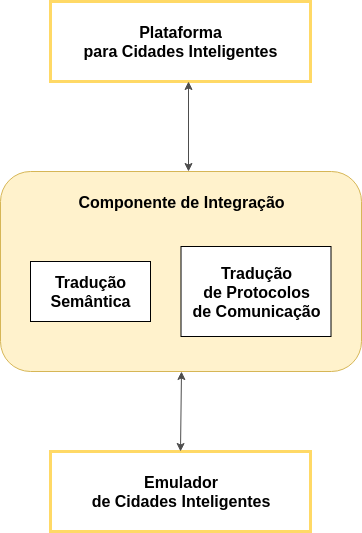
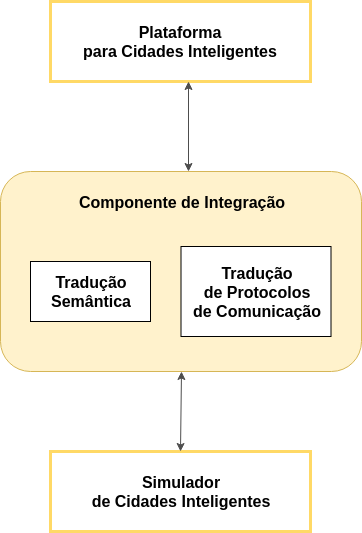
Melhorias gerais no texto

diff --git a/capitulos/4-estudos-de-caso.tex b/capitulos/4-estudos-de-caso.tex
@@ -9,7 +9,7 @@ Através desses dois experimentos pudemos validar a proposta de solução aprese
 Foi possível exercitar as principais funcionalidades necessárias para a realização de experimentos desse tipo, através da integração do InterSCSimulator e a plataforma InterSCity.
 
 Os cenários simulados em cada experimento e seus respectivos resultados serão apresentados nas seções a seguir.
-E ao final, realizaremos uma análise crítica sobre os resultados obtidos nesse trabalho, apontando possíveis melhorias a serem feitas.
+E ao final, realizaremos uma análise crítica sobre os resultados obtidos nesses estudos de caso, apontando possíveis melhorias a serem feitas.
 
 \section{Estacionamento Inteligente}
 \label{sec:exp_smart_parking}
@@ -24,17 +24,17 @@ Utilizamos dados extraídos da pesquida OD (Origem-Destino) realizada pela Compa
 A seguir, esses dados, bem como suas fontes, utilizados na configuração do experimento serão detalhados:
 
 \begin{itemize}
-    \item \textbf{Pesquisa Origem-Destino (OD)}: criamos as viagens de carro simuladas com base na pesquisa OD realizada pela Companhia de Metrô de São Paulo.
+    \item \textbf{Pesquisa Origem-Destino (OD)}: criamos as viagens de carro simuladas com base na pesquisa OD realizada pela Companhia de Metrô de São Paulo em 2007.
         \footnote{Pesquisa Origem-Destino - http://goo.gl/Te2SX7.}
         Essa pesquisa descreve as viagens de 200.000 pessoas e extrapola os dados para toda a população da cidade.
         A pesquisa inclui informações sobre a origem, o destino, o modo de transporte e a hora de partida.
-        Esses dados forma utilizados para definir o comportamento dos agentes do tipo carro na simulação.
-        Para gerar a carga para os experimentos da plataforma, emulamos o tráfego em São Paulo durante o horário de pico, das 5h40 às 8h40.
+        Esses dados foram utilizados para definir o comportamento dos agentes do tipo carro na simulação.
+        Para gerar a carga de trabalho para a plataforma, simulamos o tráfego em São Paulo durante um dos horário de pico, das 5h40 às 8h40.
         Na pesquisa OD, há 492.976 carros que começam suas viagens durante o intervalo de tempo considerado.
 
     \item \textbf{OpenStreet Maps}: para criar o grafo viário da cidade de São Paulo usado na simulação, usamos o mapa do OpenStreet Maps.
         Este mapa contém todas as ruas e junções da cidade, em conjunto com um vasto número de atributos, como comprimento, capacidade e velocidade limite.
-        Tal informação é usada pelo simulador para definir as rotas percorridas pelos carros durante a realização de suas viagens, bem como simular o impacto do tráfego na velocidade dos carros.
+        Tais informações são usadas pelo simulador para definir as rotas percorridas pelos carros durante a realização de suas viagens, bem como simular o impacto do tráfego na velocidade dos carros.
 
     \item \textbf{Vagas de Estacionamento}: criamos as vagas de estacionamento na simulação baseado nos dados obtidos através do OpenStreet Maps e do Zona Azul
         \footnote{http://www.cetsp.com.br/consultas/zona-azul/mapa-zona-azul/mapa-zona-azul.aspx}
@@ -46,7 +46,7 @@ utilizadas nesse experimento.
 Os destinos apresentados na Figura \ref{fig:map-destinations-distribution}, são referentes a todas as viagens realizadas no decorrer de toda a simulação.
 É importante notar que a distribuição das vagas de estacionamento baseado nesses dados reais está mais concentrada no centro da cidade do que os destinos das viagens.
 Isso pode levar a situaçãoes onde o agente do tipo carro pode realizar mais de três tentativas de busca de vagas disponíveis e ainda sim não conseguir estacionar.
-Nesse caso, o usuário do aplicativo pararia de utiliza-lo e o agente do tipo carro terminaria sua execução, como apresentado na Seção \ref{sec:smart_parking}.
+Nesse caso, o usuário do aplicativo pararia de utilizá-lo e o agente do tipo carro terminaria sua execução, como apresentado na Seção \ref{sec:smart_parking}.
 
 \begin{figure}[!ht]
     \centering
@@ -83,10 +83,10 @@ Então, inicialmente, foi necessário a configuração de ambas as ferramentas e
 Os microsserviços da plataforma InterSCity, o simulador InterSCSimulator e ferramentas auxiliares foram implantados na forma de \textit{containers} Docker \footnote{https://www.docker.com/}.
 Utilizamos a infraestrutura provida pelo Google Cloud Platform (GCP) \footnote{https://cloud.google.com/} para a realização do experimento, sendo esse o ambiente ideal para a execução da plataforma
 InteSCity, como visto na Seção \ref{sec:interscity}.
-No contexto do GCP, fizemos bastante uso do Google Kubernetes Engine (GKE), sendo esse um serivço que provê um ambiente gerenciado e pronto de produção para implantação de \textit{containers} de
+No contexto do GCP, fizemos bastante uso do Google Kubernetes Engine (GKE), sendo esse um serviço que provê um ambiente gerenciado e de produção para implantação de \textit{containers} de
 aplicações.
 O Kubernetes foi utilizado principalemte para automatizar a reinicialização, a replicação e dimensionamento do número de \textit{containers}.
-Além disso, o kubernetes traz uma vantagem para a reproducibilidade do experimento que é a especificação da infraestrutura como código, garantindo a correta aplicação das regras de implantação.
+Além disso, o kubernetes traz uma vantagem para a reprodutibilidade do experimento que é a especificação da infraestrutura como código, garantindo a correta aplicação das regras de implantação.
 Todo o código fonte utilizado para a realização desse experimento está disponível em repositório aberto na web \footnote{https://github.com/LSS-USP/interscity-k8s-experiment}.
 
 Nós dividimos o \textit{cluster} utilizado em cinco diferentes \textit{pools} de máquinas virtuais para que o Kubernetes pudesse gerenciar os \textit{containers} no contexto apropriado.
@@ -109,11 +109,11 @@ Finalmente, o InterSCSimulator é executado em sua própria máquina n1-highmem-
 \end{figure}
 
 
-Para o conjunto de nós da plataforma, o Kubernetes pode programar vários \textit{containers} para a mesma máquina, dependendo da disponibilidade de recursos computacionais.
+Para o conjunto de nós da plataforma, o Kubernetes pode programar a implantação de vários \textit{containers} para a mesma máquina, dependendo da disponibilidade de recursos computacionais.
 A distribuição de \textit{containers} nos 25 nós pode diferir de uma rodada do experimento para a outra, e é uma variável que nós não controlamos durante o experimento.
 Para avaliar o impacto de tais variações na análise, realizamos 15 rodadas deste experimento e verificamos a variabilidade dos resultados.
 
-Como estávamos interessados em avaliar a escalabilidade da plataforma considerando um cenário de cidade inteligente com uma carga de trabalho variável, usamos dimensionamento automático
+Como estávamos interessados em avaliar a escalabilidade da plataforma considerando um cenário de Cidades Inteligentes com uma carga de trabalho variável, usamos dimensionamento automático
 (\textit{auto-scaling}) para o \textit{Resource Catalog}, \textit{Resource Discovery}, \textit{Data Collector}, já que eles são projetados para escalar horizontalmente.
 Para este propósito, especificamos um valor alvo de 60\% de uso da CPU para cada um desses serviços, permitindo que o sistema aumente ou diminua o número de \textit{containers} por serviço baseado nisso.
 O sistema balanceia a carga de trabalho para corresponder ao valor alvo de uso da CPU, considerando o uso médio da CPU dos \textit{containers} em execução, que é medido a cada 30 segundos.
@@ -176,10 +176,10 @@ este tipo de aplicação de Cidades Inteligentes em tempo real.
 
 
 Outro aspecto fundamental da avaliação de um sistema é analisar o desempenho da plataforma para lidar com requisições de aplicação com uma carga de trabalho variável.
-A este respeito, estamos interessado principalmente em analisar a degradação do desempenho e verificar se a plataforma está sendo dimensionada adequadamente para atender seus clientes dentro de tempos
+A este respeito, estamos interessados principalmente em analisar a degradação do desempenho e verificar se a plataforma está sendo dimensionada adequadamente para atender seus clientes dentro de tempos
 de resposta aceitáveis.
 Para tanto, coletamos o tempo de resposta do ponto de vista do cliente, como mostrado Figura \ref{fig:responsetime}.
-Durante a maior parte da duração do experimento, a plataforma foi capaz de responder em menos de um segundo.
+Durante a maior parte do experimento, a plataforma foi capaz de responder em menos de um segundo.
 No entanto, diferente da taxa de vazão, o impacto do maior período de demanda no tempo de resposta observado é perceptível, uma vez que, durante um intervalo curto (após 110 minutos de execução),
 o tempo médio de resposta foi maior que 1 segundo.
 O tempo de resposta voltou para 500 milisegundos depois disso.
@@ -194,7 +194,7 @@ Entretanto, podemos ver que mesmo em períodos de alta carga, o tempo de respost
 
 
 Devemos ter em mente que a distribuição de \textit{containers} nos nós disponíveis podem impactar o tempo de resposta, pois vários \textit{containers} podem competir por recursos computacionais se estiverem
-sendo executados a mesma máquina.
+sendo executados na mesma máquina.
 Além disso, embora o sistema realize a tarefa de dimensionamento automático a cada 30 segundos, não temos controle sobre o tempo que leva para um \textit{container} ser criado, implantado e ficar pronto
 para receber novas requisições.
 Por outro lado, essa distribuição também pode introduzir um efeito benéfico devido a possível implantação de serviços que constantemente interagem uns com os outros na mesma máquina, reduzindo a latência
@@ -209,14 +209,15 @@ Essa aplicação de detecção de anomalias em vias foi implementada utilizando 
 Esse experimento consistiu em três etapas.
 Com discutido na Seção \ref{sec:smart_traffic}, limiares (\textit{thresholds}) de velocidade média para cada trecho de via em cada horário do dia deveriam ser definidos.
 Portanto, a primeira etapa consistiu na simulação do trânsito da cidade sem nenhum evento de fechamento de via, ou seja, o trânsito normal da cidade.
-Com isso, a aplicação de detecção de anomalias era capaz de com os dados de posicionamento de carros enviados a cada ciclo de execução definir esses tais limiares.
+Com isso, a aplicação de detecção de anomalias foi capaz de, com os dados de posicionamento de carros enviados a cada ciclo de execução, definir esses tais limiares.
 Já a segunda etapa, consistiu em simular o trânsito de carros na cidade com alguns eventos de fechamento de vias (representando ruas alagadas e acidentes de carro por exemplo).
 Nessa etapa, simulamos o comportamento caótico visto nas grandes cidades, onde vias são interditadas e interferem diretamente no tráfego dos carros.
-Na última etapa, simulamos exatamente a segunda etapa, mas adicionamos as PMVs para auxiliar os condutores de carros a contornar essas situações.
+Na última etapa, simulamos o mesmo comportamento da segunda etapa, mas adicionamos as PMVs para auxiliar os condutores de carros a contornar essas situações.
 Tendo em vista que os limiares já haviam sido definidos, a aplicação, sem ter conhecimento prévio dessas vias fechadas, detectava automaticamente esses trechos e notificava os motoristas através da
 atualização de mensagens nas PMVs.
+O objetivo dessas três etapas era verificar o impacto do uso de PMVs no tempo de duração médio das viagens de carro em situações de incidentes que inviabilizam a utilização de certas vias em uma cidade.
 
-Para verificar o bom funcionamento desse cenário no ambiente emulado, dividimos esse experimento em dois.
+Para verificar o bom funcionamento desse cenário no ambiente simulado, dividimos esse experimento em dois.
 Na primeira parte, realizamos um experimento numa escala menor e com dados fictícios, visando meramente a validação do comportamento esperado e interação entre os componentes.
 Na segunda parte, utilizamos dados abertos da cidade de São Paulo, aumentando a escala do experimento e se aproximando de um cenário mais realista.
 O código fonte para a execução do experimento e a análise apresentada aqui nesta seção estão disponível em nosso repositório aberto
@@ -245,7 +246,7 @@ O grafo é direcionado, onde cada aresta na verdade representa duas, sendo uma e
 	\label{fig:mapa_validacao}
 \end{figure}
 
-O grafo da Figura \ref{fig:mapa_validacao} retrata o mapa viário da cidade emulada da seguinte forma:
+O grafo da Figura \ref{fig:mapa_validacao} retrata o mapa viário da cidade simulada da seguinte forma:
 
 \begin{itemize}
     \item Os vértices representam início e/ou fim de uma ou mais ruas.
@@ -262,7 +263,7 @@ Além disso, adotamos a seguinte forma para separar vértices e arestas que dese
 
     \item O vértice cinza representa a origem de todas as viagens simuladas.
 
-    \item O vértice amarelo representa o destino das viagens.
+    \item O vértice alaranjado representa o destino das viagens.
 
     \item O vértice azul representa o local da cidade que contém uma PMV que alertará os motoristas sobre possíveis anomalias nas vias.
 \end{itemize}
@@ -312,14 +313,14 @@ a notificação iriam de fato mudar o seu trajeto.
 	\label{fig:mapa_etapa3}
 \end{figure}
 
-As três etapas desse experimento foram realizadas em dois \textit{laptops} com 8 CPUs virtuais (1.80 GHz) e 8 GB de memoria RAM.
+As três etapas desse experimento foram realizadas em dois \textit{laptops} com 8 CPUs virtuais (1.80 GHz) e 8 GB de memória RAM.
 Diferente do experimento apresentado na Seção \ref{sec:exp_smart_parking}, o foco desse experimento não é analisar o desempenho da plataforma, mas sim uma análise funcional. 
 O passo a passo para execução desse experimento de validação foi o seguinte:
 
 \begin{enumerate}
-    \item Executar uma instância em modo de produção da plataforma InterSCity em um \textit{laptops}.
+    \item Executar uma instância em modo de produção da plataforma InterSCity em um \textit{laptop}.
 
-    \item Executar uma instância em modo de produção da simulador InterSCSimulator no outro \textit{laptop}.
+    \item Executar uma instância em modo de produção do simulador InterSCSimulator no outro \textit{laptop}.
 
     \item Configurar rede local entre os \textit{laptops}, conectados de maneira cabeada via ethernet.
 
@@ -365,7 +366,7 @@ trabalho pioneiro.
 \label{sec:smart_traffic}
 
 Tendo em vista que a implementação dos modelos utilizados para este cenário e a integração estavam funcionando dentro do esperado, realizamos um outro experimento, envolvendo o mesmo cenário de tráfego de
-carros inteligente, mas dessa vez em uma escala maior e com dados abertos da cidade de São Paulo.
+carros inteligente, mas dessa vez em uma escala maior, com dados abertos da cidade de São Paulo.
 
 Dividimos esse experimento em três etapas novamente, e elas se deram da seguinte forma quanto ao número de eventos de fechamento de via e PMVs:
 
@@ -384,13 +385,13 @@ A seguir mais detalhes sobre esses dados.
 Dessa vez não utilizamos o mapa viário completo da cidade de São Paulo, realizamos um recorte de um trecho da avenida Rebouças com um raio de 5km, próximo ao cruzamento da avenida Paulista.
 O intuito desse recorte era reduzir o escopo do experimento para enfatizar a impacto das PMVs naquela região.
 E para criação das viagens de carros a serem realizadas, usamos os mesmos dados da pesquisa OD (Origem-Destino) utilizada no experimento de estacionamento inteligente.
-Contudo, como não utilizamos o mapa completo da cidade, filtramos apenas as viagens cuja origem e destino pertencessem am recorte do mapa realizado.
+Contudo, como não utilizamos o mapa completo da cidade, filtramos apenas as viagens cuja origem e destino pertencessem ao recorte do mapa realizado.
 Todos os \textit{scripts} utilizados para filtrar os dados de entrada estão disponíveis em nosso repositório aberto\footnote{https://github.com/LSS-USP/pmv\_experiment}.
 
 \begin{itemize}
     \item \textbf{OpenStreet Maps}: para criar o grafo viário da cidade de São Paulo usado na simulação, usamos o mapa do OpenStreet Maps.
         Este mapa contém todas as ruas e junções da cidade, em conjunto com um vasto número de atributos, como comprimento, capacidade e velocidade limite.
-        Tal informação é usada pelo simulador para definir as rotas percorridas pelos carros durante a realização de suas viagens, bem como simular o impacto do tráfego na velocidade dos carros.
+        Tais informações são usadas pelo simulador para definir as rotas percorridas pelos carros durante a realização de suas viagens, bem como simular o impacto do tráfego na velocidade dos carros.
         Neste experimento, diferente do apresentado na seção anterior, não utilizamos o mapa viário completo da cidade de São Paulo.
         Realizamos um recorte de um trecho da avenida Rebouças com um raio de 5km, próximo ao cruzamento da avenida Paulista.
 
@@ -400,7 +401,7 @@ Todos os \textit{scripts} utilizados para filtrar os dados de entrada estão dis
         A pesquisa inclui informações sobre a origem, o destino, o modo de transporte e a hora de partida.
         Esses dados forma utilizados para definir o comportamento dos agentes do tipo carro na simulação.
         Por não termos utilizado o mapa completo da cidade, filtramos apenas as viagens cuja origem e destino pertencessem am recorte do mapa realizado.
-        Emulamos o tráfego em São Paulo durante o horário das 8h às 9h30.
+        Simulamos o tráfego em São Paulo durante o horário das 8h às 9h30.
         Na pesquisa OD, há 2.210 viagens de carro que começam durante o intervalo de tempo considerado e no recorte do mapa feito.
 \end{itemize}
 
@@ -430,12 +431,12 @@ com relação a não existência das PMVs.
 Consideramos que, pelo fato das avenidas Rebouças e Paulista serem bem movimentadas, muitas das viagens simuladas neste experimento passassem por aquele trecho. 
 Contudo, a utilização das PMVs não deveria melhorar a média da duração das viagens em relação a etapa onde não acontece nenhum evento de fechamento de via.
 
-As três etapas desse experimento foram realizadas novamente em dois \textit{laptops} com 8 CPUs virtuais (1.80 GHz) e 8 GB de memoria RAM.
+As três etapas desse experimento foram realizadas novamente em dois \textit{laptops} com 8 CPUs virtuais (1.80 GHz) e 8 GB de memória RAM.
 Mais uma vez, diferente do experimento apresentado na Seção \ref{sec:exp_smart_parking}, o foco desse experimento não é analisar o desempenho da plataforma, mas sim uma análise funcional. 
 O passo a passo para execução desse experimento de validação foi o seguinte:
 
 \begin{enumerate}
-    \item Executar uma instância em modo de produção da plataforma InterSCity em um \textit{laptops}.
+    \item Executar uma instância em modo de produção da plataforma InterSCity em um \textit{laptop}.
 
     \item Executar uma instância em modo de produção da simulador InterSCSimulator no outro \textit{laptop}.
 
@@ -455,7 +456,7 @@ Outro fator importante que nos chamou a atenção, foi a média da duração das
 incidente.
 Após analisar os dados, percebemos que ao recalcular a rota quando deparado de uma PMV, os carros se distribuíam de uma melhor forma pela malha viária do cenário utilizado pelo experimento, com isso,
 evitavam congestionamentos que ocorriam anteriormente.
-Sendo essa uma possível melhoria no emulador, já que o mesmo ao criar o ator calcula e utiliza apenas um dos menores caminhos entre a origem e destino do carro, podendo essa rota coincidir entre
+Sendo isso um alvo de possível melhoria no simulador, já que o mesmo ao criar o ator, calcula e utiliza apenas um dos menores caminhos entre a origem e destino do carro, podendo essa rota coincidir entre
 múltiplos atores com origem e destinos similares, assim, deixando outros caminhos mais curtos inutilizados.
 Todavia, como esperado, a etapa 2, onde temos fechamento de vias mas não temos PMVs, teve a maior média de duração das viagens.
 
@@ -485,8 +486,8 @@ Contudo, a melhora de aproximadamente 5\% na média do tempo de duração da via
 Avaliamos que alguns fatores podem ter influenciado nesse resultado, sendo a maioria deles voltado para os dados utilizados para a definicação do cenário de simulação deste experimento.
 O posicionamento das PMVs pode não ter sido o ideal, já que não foi realizada uma análise prévia de onde passariam a maior parte dos carros.
 O conjunto de viagens simulados após recortar o mapa da cidade de São Paulo pode não ter sido representativo, a decisão de reduzir o mapa para facilitar a visualização do impacto do fechamento de vias
-e PMVs pode não ter sido boa.
-Além disso, os resultados obtidos podem ter sudo influenciados devido a infraestrutura simples utilizada com apenas dois \textit{laptops}.
+e PMVs pode não ter sido boa ideia.
+Além disso, os resultados obtidos podem ter sido influenciados devido a infraestrutura simples utilizada com apenas dois \textit{laptops}.
 
 
 \section{Análise Crítica}
@@ -503,7 +504,7 @@ Neste trabalho, acreditamos que ambos os estudos de caso foram devidamente autom
 No primeiro estudo de caso conseguimos evidenciar a escalabilidade horizontal da plataforma InterSCity.
 Várias melhorias foram realizadas e gargalos solucionados, o que nos demonstrou a extrema importância da realização desse tipo de experimento durante o ciclo de desenvolvimento de plataformas de Cidades
 Inteligentes.
-Já no segundo estudo de caso, demonstramos a viabilidade da atuação em um ambiente emulado, sendo esse um trabalho pioneiro na área de Cidades Inteligentes.
+Já no segundo estudo de caso, demonstramos a viabilidade da atuação em tempo de execução em um ambiente simulado, sendo esse um trabalho pioneiro na área de Cidades Inteligentes.
  
 Contudo, como o foco principal do trabalho é prover uma solução de ambiente simulado para a realização de experimentos em plataformas de Cidade Inteligentes, acreditamos que algumas das análises
 apresentadas nos estudos de caso poderiam ser melhoradas.

diff --git a/capitulos/2-trabalhos-relacionados.tex b/capitulos/2-trabalhos-relacionados.tex
@@ -33,7 +33,7 @@ Todos esses desafios anteriores dificultam ainda mais a \textit{reprodutibilidad
 Podemos encontrar diversos trabalhos que tentaram solucionar os desafios citados, sendo grande parte dessas soluções através de \textit{testbeds} reais.
 Nesses \textit{testbeds}, dispositivos de IoT são implantados no ambiente, conectados através de redes de sensores e monitorados.
 Todo esse processo tem um custo alto, tanto de aquisição dos equipamentos necessários quanto de mão de obra para execução.
-Temos \textit{testbeds} implantados em ambientes abertos e também em laboratórios.
+Temos \textit{testbeds} implantados tanto em ambientes abertos quanto em laboratórios.
 
 Grande parte dos \textit{testbeds} apresentados na literatura foram implantados em cidades da Europa, e cada um deles tem um foco específico.
 Os \textit{testbeds} apresentados em  \cite{olivares_2013} e \cite{cenedese_2014} são voltados para experimentos envolvendo redes de sensores, como os nós interagem e o correto
@@ -51,7 +51,7 @@ Nesses trabalhos, a heterogeneidade é tratada a nível de protocolos de rede pa
 através de diferentes formatos de dados.
 Mais uma vez temos o problema de \textit{escala} que não é deixado claro nas apresentações dos \textit{testbeds}.
 
-Em \cite{lanza_2015}, é apresentado uma parte do \textit{testbed} implantado na cidade de Santander na Espanha com uma característica muito interessante que não é encontrada na maioria dos outros
+Em \cite{lanza_2015}, é apresentado uma parte do \textit{testbed} implantado na cidade de Santander na Espanha, com uma característica muito interessante que não é encontrada na maioria dos outros
 trabalhos, o seu foco principal é a \textit{mobilidade}.
 Ao perceberem que veículos são a melhor forma de obter dados da cidade reduzindo os gastos, já que circulam por vários pontos da cidade no mesmo dia, implantaram sensores em 140 ônibus, táxis e vans
 para coleta de diversos dados.
@@ -61,7 +61,7 @@ Todavia, todos os desafios foram atacados em uma \textit{escala} bem menor do qu
 No contexto de Cidades Inteligentes, além da parte técnica, temos também que nos preocupar com o impacto dessa tecnologia na vida das pessoas.
 O \textit{testbed} introduzido por \cite{nati_2013}, tem o objetivo de viabilizar experimentos centrados no usuário, onde ao invés de ter os dispositivos e softwares envolvidos sob prova, temos
 o usuário como alvo do experimento.
-Nesse tipo de ambiente, seria bastante complexo a realização de experimentos em larga \textit{escala}, tendo em vista que necessitaríamos de envolver a população de uma cidade no processo de
+Nesse tipo de ambiente, seria bastante complexo a realização de experimentos em larga \textit{escala}, tendo em vista que necessitaríamos envolver a população de uma cidade no processo de
 experimentação.
 Por isso, esse \textit{testbed} foi implantado no contexto de um escritório, e não ataca a maioria dos desafios citados nesta seção, como \textit{mobilidade} por exemplo.
 
@@ -76,7 +76,7 @@ tratando de pontos como autenticação, identificação segura e políticas de a
 Além de todos esses ambientes de experimentação apresentados, temos provavelmente o mais conhecido dentre eles, o desenvolvido pelo projeto \textit{SmartSantander}~\cite{sanchez_2014}.
 Esse \textit{testbed} foi implantado na cidade de Santander na Espanha, e o mesmo visou atacar todos os desafios apresentados nesta seção.
 Além de ser um ambiente de teste, ele provê serviços para a população da cidade através de aplicações de Cidades Inteligentes, como por exemplo uma aplicação de estacionamento inteligente.
-Ademais, a implantação desse \textit{testbed} teve total apoio do governo da cidade e financiamento de diversas fontes.
+A implantação desse \textit{testbed} só foi possível devido ao total apoio do governo da cidade e financiamento de diversas fontes.
 Todavia, apesar desse ser um dos ambientes de experimentação mais bem sucedidos que temos na literatura, ainda acreditamos que o mesmo não representa a escala de uma grande metrópole como
 São Paulo, sabendo que Santander possui aproximandamente $ 35 km^2 $ e 175 mil habitantes\footnote{https://pt.wikipedia.org/wiki/Santander\_(Cant\%C3\%A1bria)}.
 
@@ -114,12 +114,12 @@ Os simuladores utilizados na área de IoT são divididos em três categorias seg
 e (iii) simuladores de rede de comunicação.
 A simulação de IoT introduz várias questões de aspectos quantitativos e qualitativos~\cite{angelo_2016}, a quantidade massiva e a heteregeneidade de dispositivos dificultam essa tarefa.
 A simulação distribuída e paralela baseada em agentes é o melhor mecanismo para contornar os problemas mencionados~\cite{angelo_2016}, já que a possibilidade de execução distribuída e paralela permite
-a execução de mais elementos dento da simulação, e a definição de agentes facilita a representação de diferentes dispositivos.
+a execução de mais elementos dentro da simulação, e a definição de agentes facilita a representação de diferentes dispositivos.
 
 Simuladores de IoT tradicionais não focam na simulação de ambientes de larga escala~\cite{brambilla_2014}.
 A grande maioria deles são simuladotes de rede, que analisam e avaliam o comportamento de objetos inteligentes organizados em uma topologia específica.
 Mas como vem sendo discutido, Cidades Inteligentes, em geral, contemplarão ambientes de larga escala, sendo necessário avaliar as plataformas em tais condições.
-O DEUS é um ambiente de simulação de Cidades Inteligentes de propósito geral baseado em eventos discretos que tenta atender requisitos de mobilidade e escalabilidade principalmente~\cite{picone_2012}.
+O DEUS é um ambiente de simulação de Cidades Inteligentes de propósito geral, baseado em eventos discretos, que tenta atender requisitos de mobilidade e escalabilidade principalmente~\cite{picone_2012}.
 Apesar de um modelo de mobilidade interessante ter sido implementado no DEUS, o experimento apresentado não é de larga escala, atingindo o máximo de 2 mil nós~\cite{picone_2012}.
 Por esse motivo não conseguimos concluir se o DEUS é uma solução viável quanto a escala do ambiente simulado.
 
@@ -151,12 +151,12 @@ centralizada e homogênea~\cite{genesereth_1997}.
 Esse interesse surge essencialmente pela necessidade de empresas integrarem seus diversos sistemas para gerar conhecimento baseado em seus dados.
 E segundo a experiência de pessoas envolvidas com a industria, dois dos principais problemas nesse tipo de integração são o desempenho e a escalabilidade da solução, como apresentado em \cite{halevy_2005}.
 
-Apesar de padronização parecer ser a solução para o problema de integração de sistemas, ela não é tão simples devido aos diferentes propósitos e natureza dos sistemas.
+Apesar de padronização parecer ser a solução para o problema de integração de sistemas, ela não é tão simples devido aos diferentes propósitos e naturezas dos sistemas.
 Na área de Cidades Inteligentes, especificamente de VANETs, um trabalho interessante resultou em uma técnica para interconectar simuladores de rede e de trânsito chamada \textit{TraCI}~\cite{wegener_2008}.
 Devido o vasto número de simuladores desse tipo, foi proposto a implementação de uma interface para cada um dos simuladores, encapsulando o funcionamento dos mesmos.
-Ao implementar tais interfaces, elas se comunicam através de um protocolo baseado em cliente-servidor desenvolvido especificamente para comunicação entre simuladores de rede e de trânsito.
+Ao implementar tais interfaces, elas se comunicam através de um protocolo, baseado em cliente-servidor, desenvolvido especificamente para comunicação entre simuladores de rede e de trânsito.
 Portanto, essa é uma técnica que independe do simulador a ser utilizado, bastando implementar essa interface que se comunicará através de um protocolo específico.
-Esse trabalho nos serviu de inspiração para a realização desta pesquisa, já que o nossa solução se basea na integração de uma plataforma e um simulador de Cidades Inteligentes.
+Esse trabalho nos serviu de inspiração para a realização desta pesquisa, já que a nossa solução se baseia na integração de uma plataforma e um simulador de Cidades Inteligentes.
 Todavia, a definição de uma interface específica e de protocolo de comunicação introduzidos pela \textit{TraCI} só foi possível porque o escopo foi reduzido para VANETs somente.
 Como esta pesquisa visa construir um ambiente de experimentação de âmbito geral no contexto de Cidades Inteligentes, desenvolvemos uma arquitetura mais alto nível com diretrizes para implementação de um
 componente de integração (\textit{middleware}) entre os dois sistemas.

diff --git a/capitulos/1-intro.tex b/capitulos/1-intro.tex
@@ -48,7 +48,7 @@ essa característica não é mais garantida.
 A utilização de simulação para resolver problemas similares aos apresentados vem sendo adotada em diversos trabalhos~\cite{karnouskos_2009}~\cite{fleischer_1994}~\cite{dupuy_1990}~\cite{boukerche_2001}.
 
 Com o intuito de viabilizar experimentos de plataformas de Cidades Inteligentes, apresentaremos uma proposta de solução para criação de um ambiente simulado de experimentação.
-Para criação desse ambiente fazemos uso de um simulador e uma plataforma de Cidades Inteligentes, onde ambos são integrados de acordo com o cenários desejado.
+Para criação desse ambiente fazemos uso de um simulador e uma plataforma de Cidades Inteligentes, onde ambos são integrados de acordo com o cenário desejado.
 Além disso, realizamos a implementação dessa solução utilizando o simulador InterSCSimulator~\cite{santana_17} e a plataforma InterSCity~\cite{arthur_17} atraveś de dois cenários de Cidades Inteligentes
 que serão apresentados adiante.
 E por fim, realizamos dois experimentos, um envolvendo cada cenário, para demonstrar a funcionalidade do ambiente construído e validar a implementação feita.
@@ -62,12 +62,12 @@ funcionamento dessas plataformas em ambientes de produção.
 Como dito anteriormente, existem alguns mecanismos que já vêm sendo utilizados na realização de experimentos com plataformas de Cidades Inteligentes, contudo, os mesmos não proporcionam o nível de interação
 e a escalabilidade necessária.
 Além do mais, a solução apresentada neste trabalho reduz os custos quando comparamos a \textit{testbeds} reais, e ainda nos permite investigar cenários hipotéticos, com tecnologias futuristas ou ainda não
-passíveis de implamantação.
-Portanto, vimos a oportunidade de realização de um trabalho precursor na área.
+passíveis de implantação.
+Portanto, vimos a oportunidade de desenvolver de um trabalho precursor na área.
 
 \section{Objetivo e Contribuições}
 
-O objetivo central deste trabalho é prover um ambiente de experimentação de larga escala e interativo para plataformas de Cidades Inteligentes através de simulação.
+O objetivo central deste trabalho é prover um mecanismo para construção de um ambiente de experimentação de larga escala e interativo para plataformas de Cidades Inteligentes através de simulação.
 Para isso, uma proposta de solução foi projetada visando atender os principais requisitos de um ambiente como esse.
 Além disso, realizamos a implementação de dois cenários de Cidades Inteligentes seguindo a arquitetura da solução proposta, usando o simulador InterSCSimulator e a plataforma InterSCity.
 Tais implementações foram usadas para a realização de dois estudos de casos que serão apresentados no decorrer do texto, com o intuito de validar a proposta de solução e implementação feita.

diff --git a/capitulos/5-conclusao.tex b/capitulos/5-conclusao.tex
@@ -23,12 +23,12 @@ Concluímos também que a tarefa de criar um ambiente de experimentação envolv
 Apesar de ambas as ferramentas utilizadas para implementação da arquitetura proposta serem desenvolvidas pelo nosso grupo de pesquisa, encontramos diversos entraves durante o processo.
 Esses problemas nos mostraram a importância da utilização de ferramentas de código aberto, pois muitas vezes o componente de integração, introduzido pela nossa proposta de solução, não é capaz de
 solucionar problemas inerentes as ferramentas.
-Problemas esses que muitas vezes só são evidenciados em cenários similares ao contexto enfrentado por metrópoles, demonstrando a importância da realização desse tipo de experimento durante o ciclo de
+Problemas esses que, em geral, só são evidenciados em cenários similares ao contexto enfrentado por metrópoles, demonstrando a importância da realização desse tipo de experimento durante o ciclo de
 desenvolvimento de plataformas para Cidades Inteligentes.
 
 Ademais, vimos que apenas a existência de um ambiente simulado que permita a realização de experimentos em escalas maiores não soluciona todos os problemas, a definição precisa do cenário de simulação
 através de dados reais de cidades tem suma relevância.
-Como apresentado na Seção \ref{sec:smart_traffic}, os resultados obtidos não foram melhores devido ao não conhecimento detalhado dos dados de entrada utilizados.
+Como apresentado na Seção \ref{sec:smart_traffic}, os resultados obtidos no segundo estudo de caso não foram melhores devido ao não conhecimento detalhado dos dados de entrada utilizados.
 Outro ponto importante na realização de experimentos é a automatização desse processo, contribuindo com trabalhos que possam ser derivados através da reprodução dos mesmos, fazendo uso de ferramentas
 e técnicas de infraestrutura como código (IaC).
 
